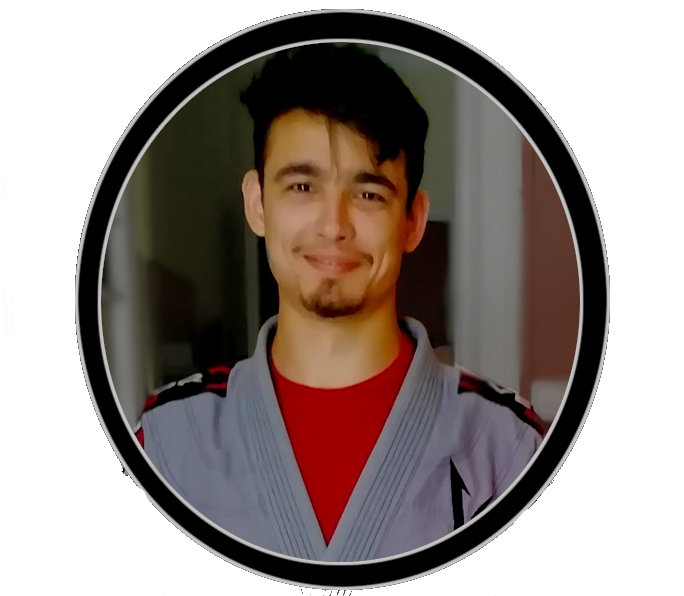
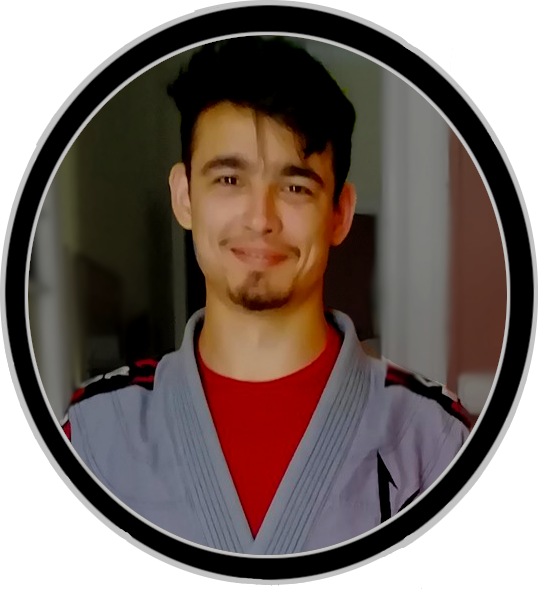
Content changed, style changed.

diff --git a/index.html b/index.html
@@ -17,27 +17,24 @@
             <p class="browsehappy">You are using an <strong>outdated</strong> browser. Please <a href="#">upgrade your browser</a> to improve your experience.</p>
         <![endif]-->
         <header id="header">
-            <h1>Brazillian Jiu Jitsu</h1>
-            <img src="Bjj.jpg" alt="Two people doing jiu jitsu" >
+            <h1>Brazilian Jiu Jitsu</h1>
+            <img src="JJicon.png" alt="Two people doing jiu jitsu" >
         </header>
         <div>
             <h2>What is Bjj?</h2>
-            <p><a href="https://en.wikipedia.org/wiki/Brazilian_jiu-jitsu" target="_blank">Brazilian Jiu Jitsu</a> is a predominantly ground-based martial art, using the principals of leverage, angles, pressure and timing, as well as knowledge of the human anatomy, in order to achieve a non-violent submission of one’s opponent. Unlike other martial arts that focus on strikes and/or kicks, jiu jitsu focuses on close-contact “grappling” holds and techniques, and the application of chokes and joint-manipulations.</p>
+            <p><a href="https://en.wikipedia.org/wiki/Brazilian_jiu-jitsu" target="_blank">Brazilian Jiu Jitsu</a> is a grappling martial art that is predominantly ground-based. It is descended from Judo, which itself is descended from traditional Japanese Jiu-Jitsu. More recently freestyle wrestling and greco-roman wrestling techniques have also been incorporated. Unlike most traditional martial arts, BJJ prioritises hard-sparring as a training method which ensures all techniques are battle-tested by encountering daily resistance by millions of practioners.</p>
         </div>
         <div>
-            <h2>Gi and Nogi</h2>
-            <p>The main difference between Gi and no-Gi BJJ is the use of the Gi, or kimono. Gi Jiu-Jitsu, or Gi BJJ participants wear the Gi, which consists of thick cotton pants and coat and a coloured belt that represents your current rank. The uniform isn’t just for show; it can be very advantageous while rolling as well as while executing different techniques like grappling and throwing.
-
-                No-Gi practitioners generally wear rash guards, shorts, and spats underneath their shorts, mostly made from polyester.
-                
-                Advocates of No-Gi Jiu-Jitsu make the case that it’s easier to learn and has more real-life applications. After all, you don’t usually see people wearing traditional Japanese kimonos walking down the street. In a real street fight, a Gi might make you conspicuous or even be a liability. Meanwhile, many others believe that Gi BJJ is a better option because it simulates a situation in which an attacker can grab your clothing.</p>
+            <h2>Training Method</h2>
+            <p>The importance of hard-sparring as an aspect of the training method cannot be overstated. It trims the fat and unnecessary fluorishes from techniques, ensuring they are all technically sound and viable against opponents that have a size advantage on you. I would never practice a martial art that didn't incorporate regular hard-sparring rounds as a central aspect of training.<br><br> Practitioners often wear a kimono (or a gi) made from durable fabric during training, inherited from judo. A judoka or a jiu jitsu practitioner trains techniques that utilise an opponent's clothing to toss them to the ground or even choke them unconcious. To practice these techniques jumpers and T-shirts would result in the fabric being torn to shreds in minutes running up a huge Primark bill. A kimono is a useful, though not perfect, substitution for these things. <br><br> However, in the modern era of jiu jitsu roughly half of your training will be "nogi". This means you'll be wearing shorts and a T-shirt or a rashguard. During nogi grappling no grips can be made on clothing. This is partly to simulate fighting in MMA rules (the founders of BJJ also founded the UFC), and partly to satisfy the demands of the consumer market. Many practioners find the gi overly bulky and hot.</p>
         </div>
         <div>
-            <h2>Why Train?</h2>
-            <p>People train  in BJJ for all sorts of reasons: </p>
+            <h2>Why BJJ is like Javascript?</h2>
             <ul>
-                <li>fitness</li>
-                <li>to meet new people</li>
+                <li><b>There are sound governing principles that you must internalise.</b></li>
+                <p>Javascript has data structures, loops, scope etc. In BJJ you have principles of leverage, weight and control.For example, pointing your oponents head to look down or to the side breaks the alignment of the spine, which leads to them being unable to effectively generate power.</p>
+                <li><b>Technical problem solving</b></li>
+                <p></p>
                 <li>to feel like a more complete martial artist</li>
             </ul> 
             <p>However, the most important reason to train is the same as for any sport, to have fun. You'll find yourself watching technique videos after class, replaying moments from sparring in your head and constantly troubleshooting positions and techniques. The main thing that keeps people interested and working on getting better, is that it's just so fun!</p>

diff --git a/index.css b/index.css
@@ -1,21 +1,28 @@
 :root {
-    --color1: #DFC7ED;
-    --color2: #C7EDD9;
-    --color3: #A19887;
-    --color4: #ECE7DE;
-    --color5: #9A8FA1;
+    --color1: #e6f5f7;
+    --color2: #03000e;
+    --color3: #8d77f1;
+    --color4: #756ed3;
+    --color5: #a73fe7;
 }
 
 body {
     background-color: var(--color1);
+    font-size: 2vw;
 }
 
 h1 {
     text-align: center;
+    color: #e6f5f7;
+    font-size: 4vw;
 }
 
 h2 {
     text-align: center;
+    font-size: 3vw;
+}
+p{
+    font-size: 2vw;
 }
 
 #header {
@@ -24,7 +31,7 @@ h2 {
     margin-right: 15px;
     background-color: var(--color2);
     box-shadow: 5px 5px 5px gray;
-    border: 3px solid black;
+    border: 3px solid purple;
     border-radius: 2%;
     -webkit-border-radius: 2%;
     -moz-border-radius: 2%;
@@ -34,18 +41,17 @@ h2 {
 }
 
 #foot {
-    background-color: var(--color2);
+    background-color: var(--color5);
     height: 100px;
     width: auto;
 }
 
 img {
-    max-width: 450px;
+    max-width: 80vw;
     width: auto;
     height: auto;
     display: block;
     margin: auto;
-    border: 3px solid black;
     border-radius: 2%;
     -webkit-border-radius: 2%;
     -moz-border-radius: 2%;
@@ -54,7 +60,7 @@ img {
 }
 
 div {
-    background-color: var(--color4);
+    background-color: var(--color1);
     box-shadow: 5px 5px 5px gray;
     padding-left: 10px;
     padding-right: 10px;
@@ -63,7 +69,7 @@ div {
     margin-bottom: 10px;
     margin-left: 20px;
     margin-right: 20px;
-    border: 3px solid black;
+    border: 3px solid blue;
     border-radius: 2%;
     -webkit-border-radius: 2%;
     -moz-border-radius: 2%;
